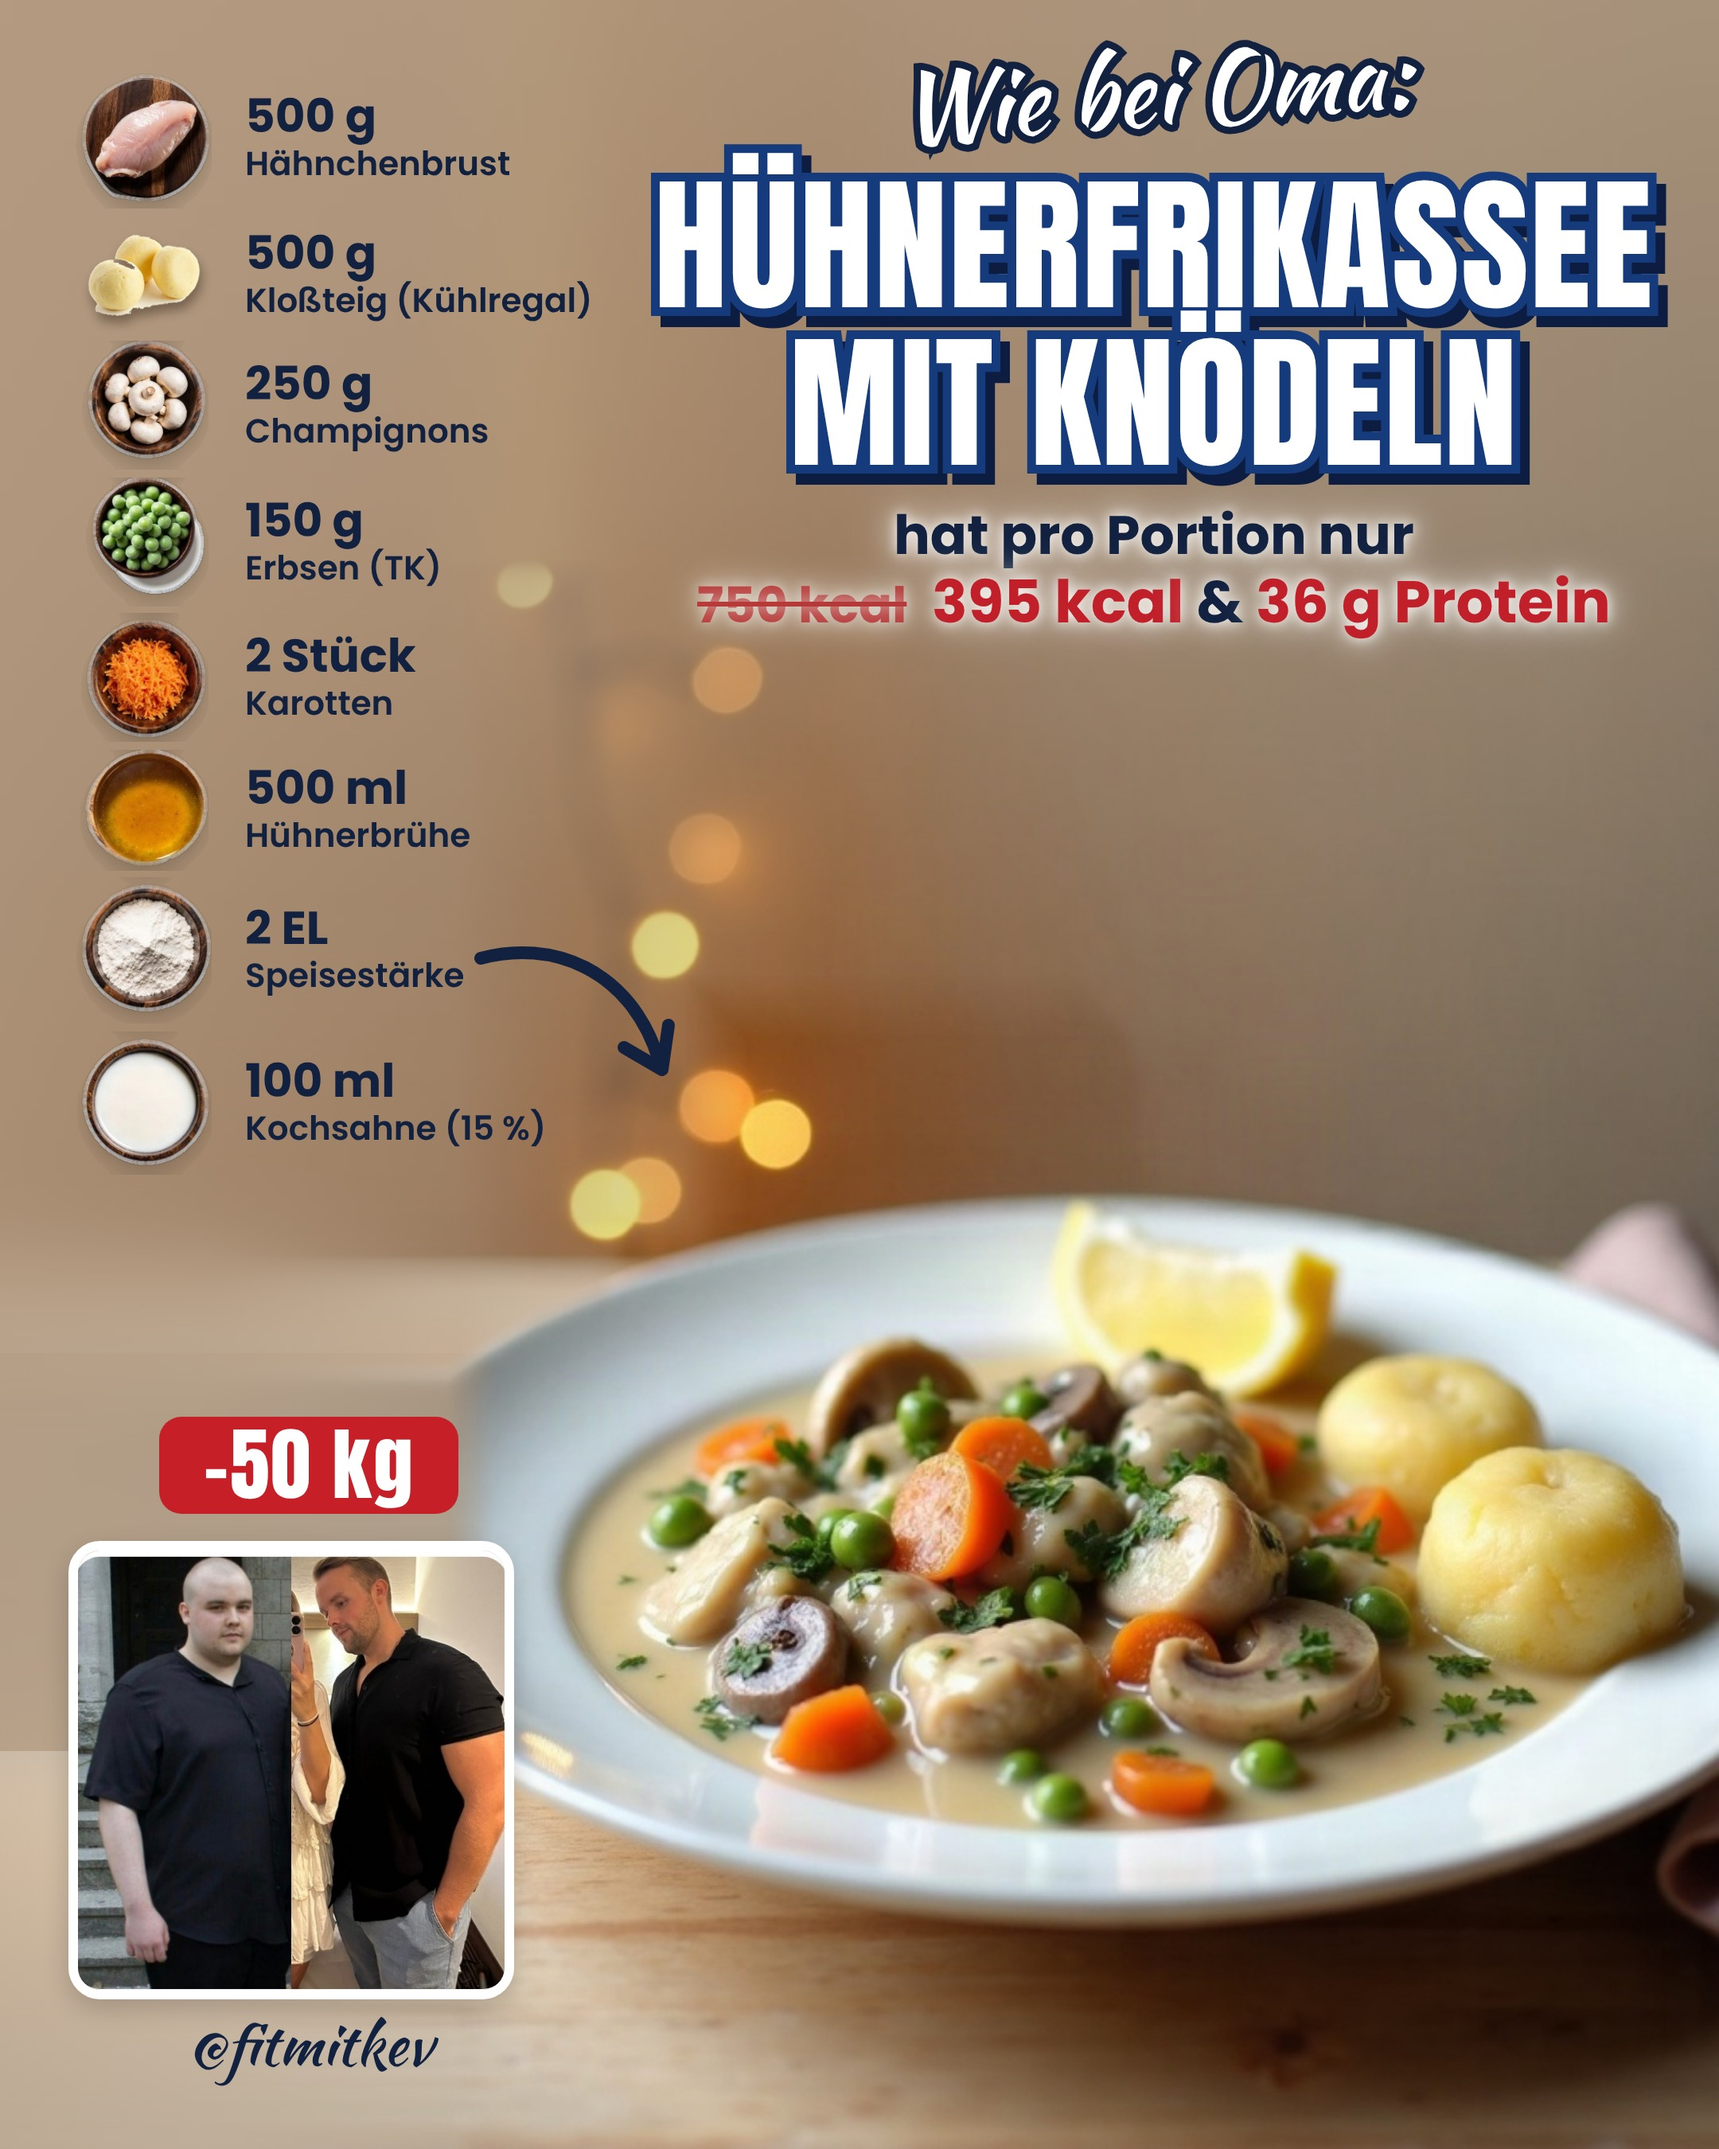
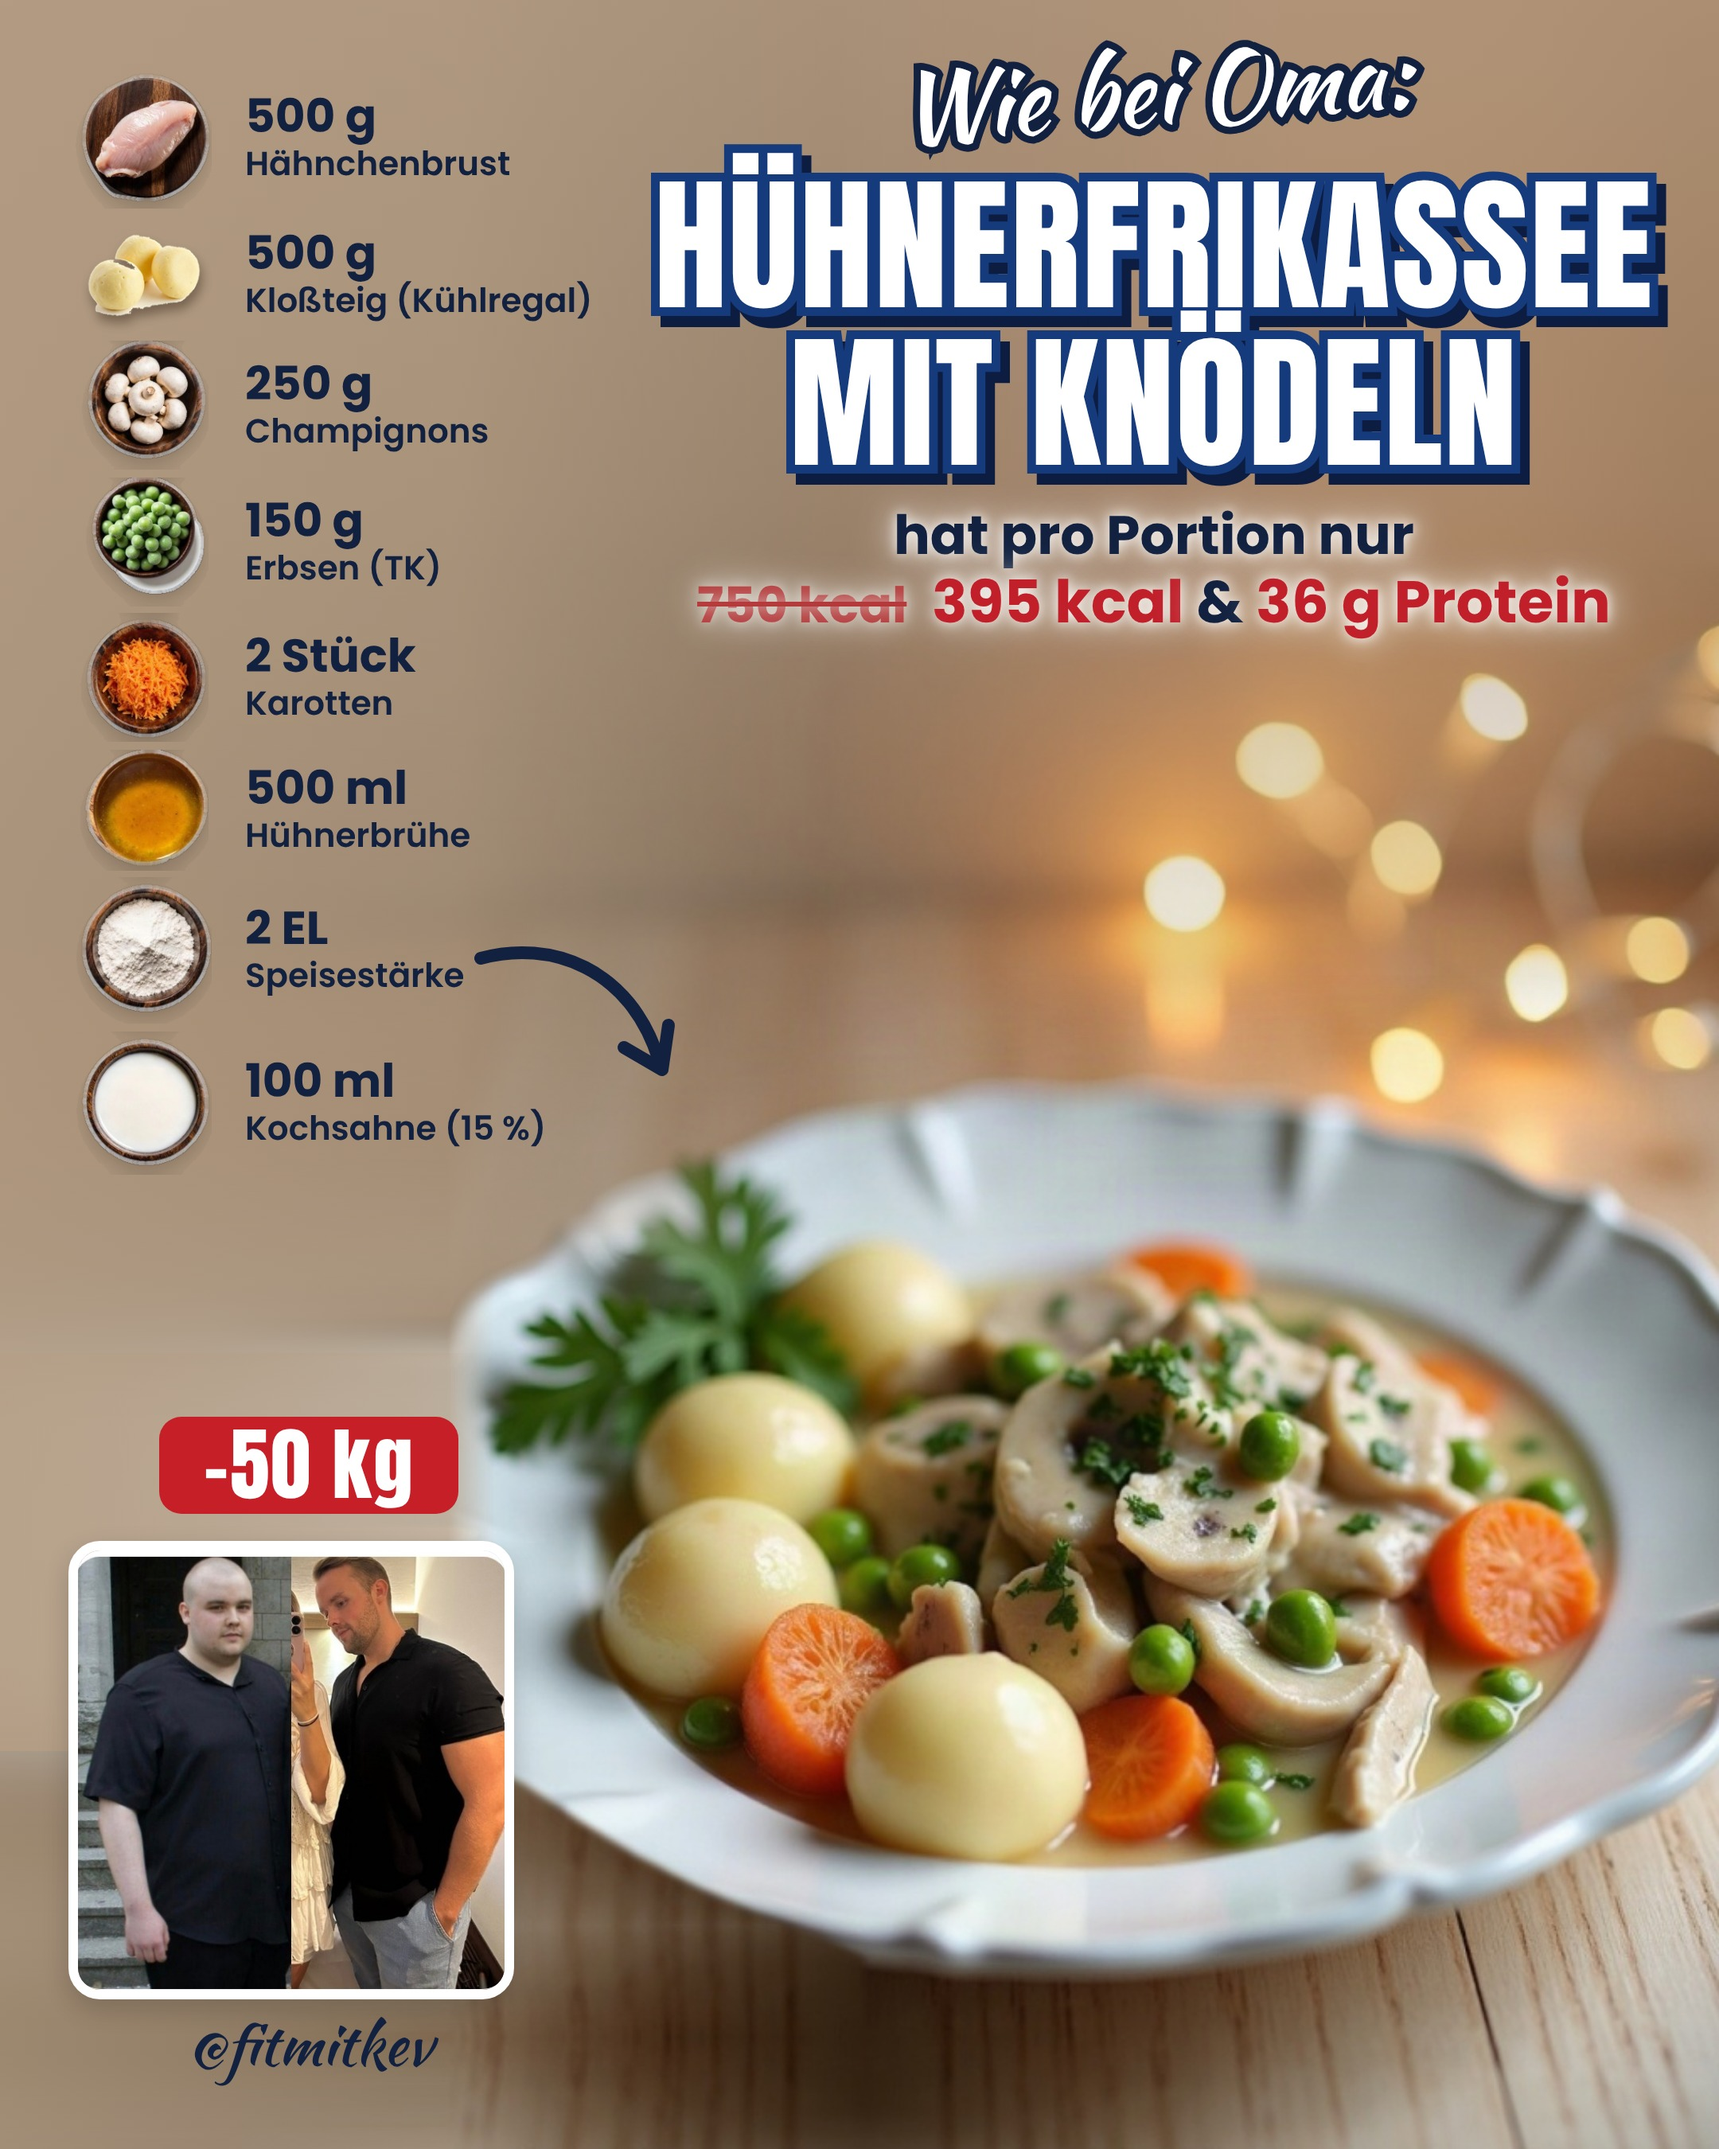
G100 Frikassee: neues Bild mit vier Knödeln (Seed 5, gespiegelt, Serviette durch Tischholz ersetzt), Texte neu
Claude-Session: https://claude.ai/code/session_01KPVmpRePrZAkggdzf7KsfK

diff --git a/tools/g100/prep100.py b/tools/g100/prep100.py
@@ -6,7 +6,7 @@ Danach wird der Freisteller neu berechnet (Text-Maske liegt dann in den richtige
 import cv2, numpy as np, json, os, sys
 D=os.path.dirname(os.path.abspath(__file__))
 KEYS=['KokosWoelkchen','Schichtsalat','HackNudeln','PizzaWrap','Frikassee']
-T={'KokosWoelkchen':dict(s=0.72),'Schichtsalat':dict(s=0.74,mirror=True),'HackNudeln':dict(s=0.74),'PizzaWrap':dict(s=0.74),'Frikassee':dict(s=0.74)}
+T={'KokosWoelkchen':dict(s=0.72),'Schichtsalat':dict(s=0.74,mirror=True),'HackNudeln':dict(s=0.74),'PizzaWrap':dict(s=0.74),'Frikassee':dict(s=0.74,mirror=True,holz=([(0,958),(60,985),(100,1012),(150,1042),(200,1068),(250,1090),(300,1108),(335,1125),(338,1280),(0,1280)],340,1190))}
 def prep(key):
     sel=json.load(open(f'{D}/hero/_auswahl.json'))[key]
     im=cv2.imread(f'{D}/raw/{sel}.jpg'); t=T.get(key,{})
@@ -17,6 +17,12 @@ def prep(key):
         x0_,x1_,y0_,y1_=t['vf']; im=im.copy().astype(np.float32); w_=np.linspace(0,1,y1_-y0_)[:,None,None]
         im[y0_:y1_,x0_:x1_]=im[y0_:y0_+1,x0_:x1_]*(1-w_)+im[y1_:y1_+1,x0_:x1_]*w_
         im[y0_:y1_,x0_:x1_]=cv2.GaussianBlur(im[y0_:y1_,x0_:x1_],(0,0),5); im=im.astype(np.uint8)
+    if t.get('holz'):                    # (Polygon, x_achse, y_achse) in Rohbild-Pixeln (nach dem Spiegeln): Serviette/Tuch am unteren Bildrand durch Tischholz ersetzen –
+        poly,xa,ya=t['holz']; hh,ww=im.shape[:2]; src=im.copy()   # unterhalb y_achse wird das Holz rechts von x_achse nach links gespiegelt, darüber die gefüllten Zeilen nach oben (Maserung läuft senkrecht weiter)
+        sx=np.clip(2*xa-1-np.arange(xa),0,ww-1); src[ya:,:xa]=im[ya:,sx]
+        n=hh-ya; k=(ya-1-np.arange(ya))%(2*n); sy=ya+np.where(k<n,k,2*n-1-k); src[:ya,:xa]=src[sy][:,:xa]
+        m=np.zeros((hh,ww),np.float32); cv2.fillPoly(m,[np.array(poly,np.int32)],1.0); m=cv2.GaussianBlur(m,(0,0),3)[:,:,None]
+        im=(im*(1-m)+src*m).astype(np.uint8)
     if t.get('keil'):                    # (x_von, [(y, x_kante), …]): Rest zwischen übermalter Fläche und Rand des Gerichts zeilenweise mit der Farbe links daneben füllen (Kante des Gerichts als Stützpunkte)
         xf,kn=t['keil']; im=im.copy(); ys=[k[0] for k in kn]; xs=[k[1] for k in kn]
         for y in range(ys[0],ys[-1]+1):
